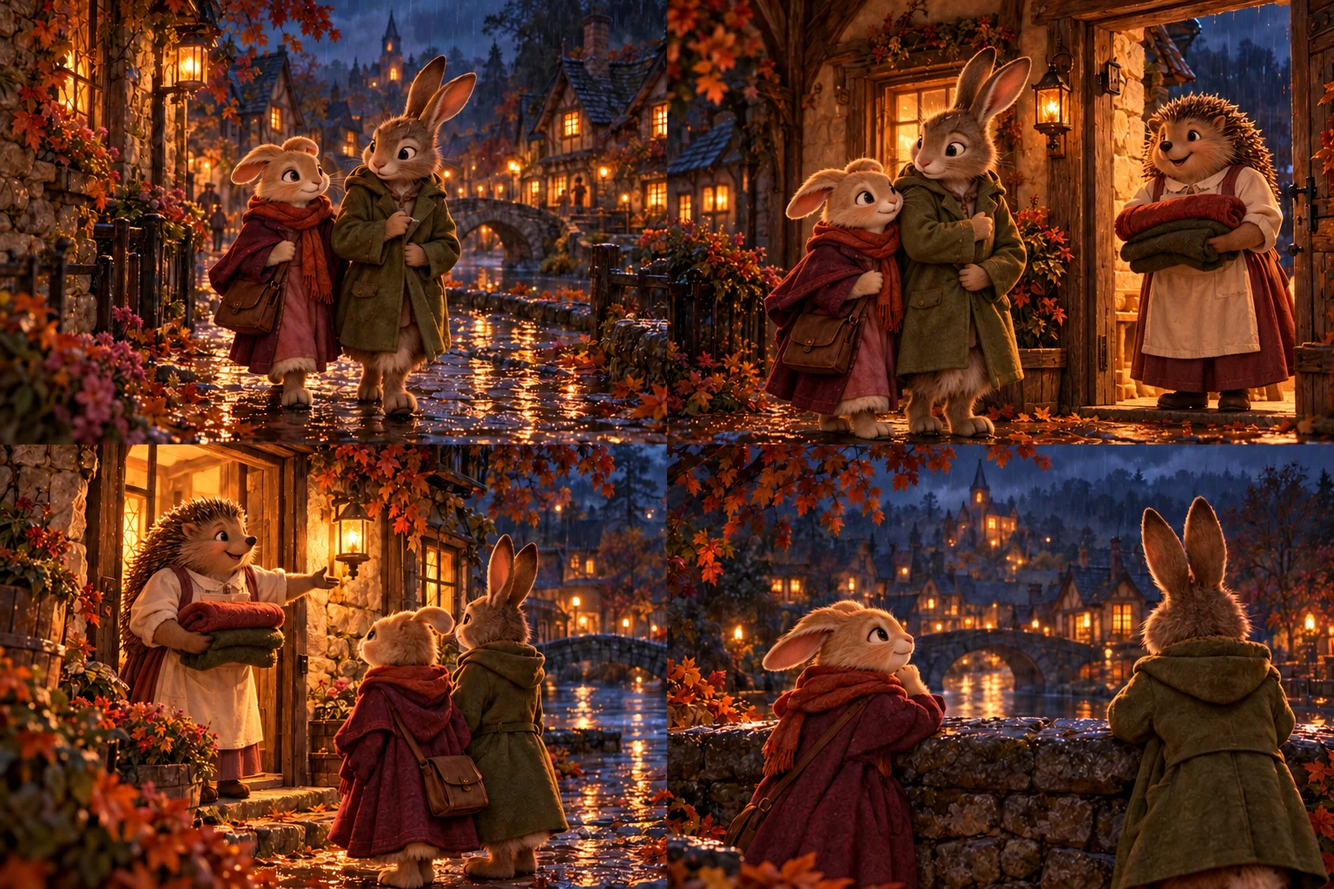
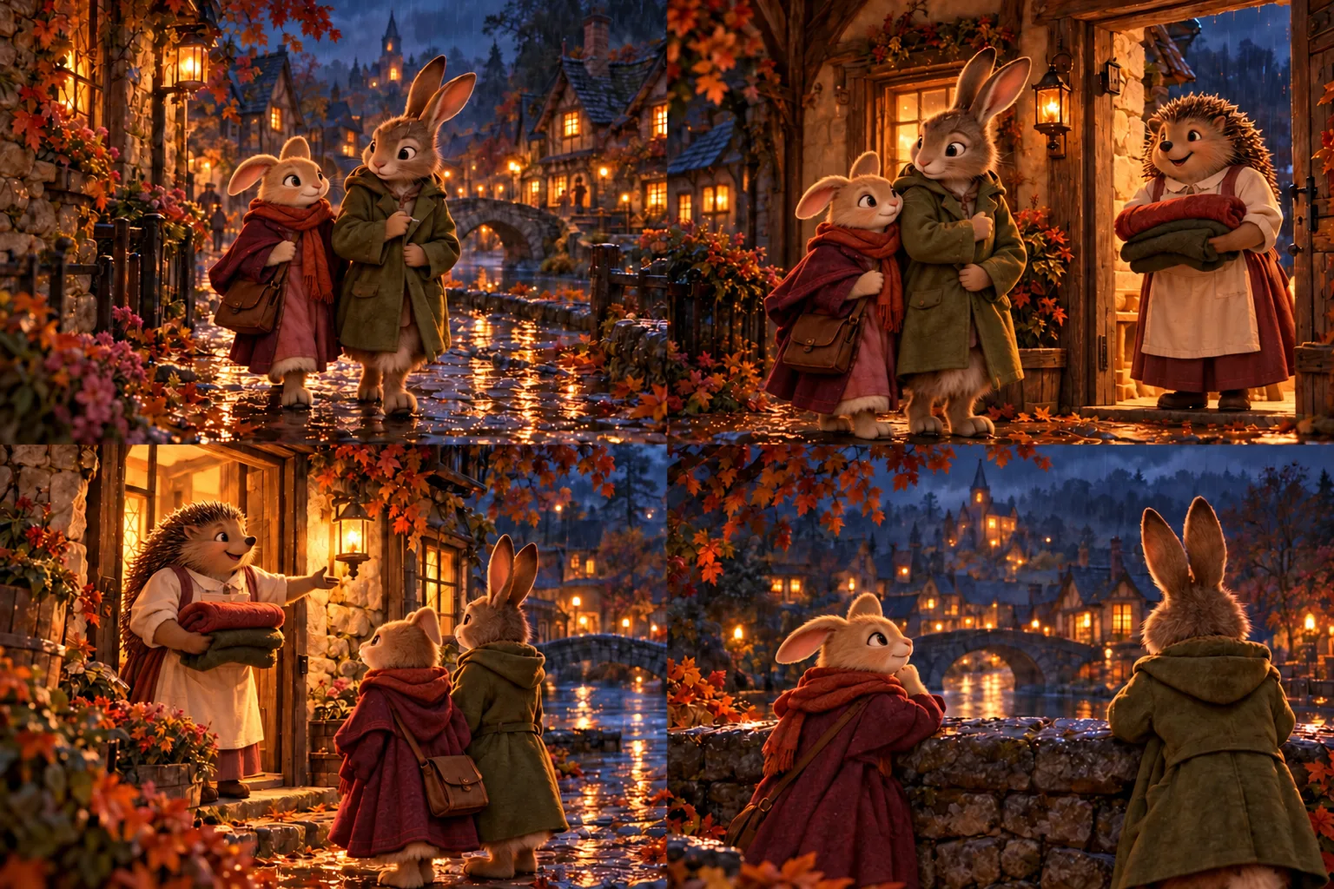
Correct Pip's duplicated ears across Chapter 1 artwork

diff --git a/woodland-crossings/frame-art.js b/woodland-crossings/frame-art.js
@@ -1,7 +1,7 @@
 // Chapter 1 illustration frames. Story words and learning state remain elsewhere.
 import {placeFrogs} from './frogs.js';
 import {CHAPTER_ONE} from './chapter-one.js';
-export const FRAME_ART=[{"id":"m1-0-0","scene":"m1","kind":"story","cell":0,"asset":"chapter-one/frames/sheet-01.webp","text":"By the time Pip and Mara left the lantern fair, rain had begun to collect in the paper pumpkins hanging above the square.","page":0,"part":0,"frog":{"id":"fair-frog","x":17,"y":29,"perches":[{"x":78,"y":84}]}},{"id":"m1-0-1","scene":"m1","kind":"story","cell":1,"asset":"chapter-one/frames/sheet-01.webp","text":"Their candlelight shone through the wet orange folds and trembled in the puddles below, where scraps of ribbon floated among the apple stalks.","page":0,"part":1},{"id":"m1-0-2","scene":"m1","kind":"story","cell":2,"asset":"chapter-one/frames/sheet-01.webp","text":"One pumpkin had sagged beneath the weight of the water, leaving a cheerful mouth beneath a rather unfortunate nose.","page":0,"part":2},{"id":"m1-0-3","scene":"m1","kind":"story","cell":3,"asset":"chapter-one/frames/sheet-01.webp","text":"Pip reached up to straighten it, balancing on the edge of the fountain so that her cape brushed the water.","page":0,"part":3},{"id":"m1-1-0","scene":"m1","kind":"story","cell":0,"asset":"chapter-one/frames/sheet-02.webp","text":"“Leave it,” Mara said. “You’ll pull the whole string down.” “I’m only trying to straighten it,” Pip said. “You were trying to help at the cake stall too,” Mara reminded her.","page":1,"part":0},{"id":"m1-2-0","scene":"m1","kind":"story","cell":1,"asset":"chapter-one/frames/sheet-02.webp","text":"Pip folded the icing-stained hem of her cape underneath and stepped down. All around them, the fair was being packed into boxes.","page":2,"part":0},{"id":"m1-2-1","scene":"m1","kind":"story","cell":2,"asset":"chapter-one/frames/sheet-02.webp","text":"The baker shook a shower of crumbs from her tablecloth while two neighbours struggled with a trestle table, and the last of the little painted boats bumped together in the fountain.","page":2,"part":1},{"id":"m1-2-2","scene":"m1","kind":"story","cell":3,"asset":"chapter-one/frames/sheet-02.webp","text":"From the open bakery door came a waft of baked apple and cinnamon that made Pip wish she had saved some of her money.","page":2,"part":2},{"id":"m1-3-0","scene":"m1","kind":"story","cell":0,"asset":"chapter-one/frames/sheet-03.webp","text":"Mara had tucked her handmade lantern, still unlit, beneath her moss-green coat, where its corners pressed awkwardly against her ribs.","page":3,"part":0},{"id":"m1-3-1","scene":"m1","kind":"story","cell":1,"asset":"chapter-one/frames/sheet-03.webp","text":"She had spent the afternoon cutting out its little windows, and whenever Pip came too close she turned sideways to protect it. The baker came to the doorway with two folded blankets over her arm.","page":3,"part":1},{"id":"m1-3-2","scene":"m1","kind":"story","cell":2,"asset":"chapter-one/frames/sheet-03.webp","text":"“If you see the mender and her apprentice, tell them their room’s ready,” she called. “They usually come over the low bridge, but I haven’t seen them yet.”","page":3,"part":2},{"id":"m1-4-0","scene":"m1","kind":"story","cell":3,"asset":"chapter-one/frames/sheet-03.webp","text":"Pip promised she would, already hoping the visitors might bring one of the little clockwork animals the apprentice sometimes made from scraps.","page":4,"part":0},{"id":"m1-4-1","scene":"m1","kind":"story","cell":0,"asset":"chapter-one/frames/sheet-04.webp","text":"They were passing the fountain when a light appeared beyond the gardens, in the mill’s upper window. “Look,” Pip said, catching Mara’s sleeve. “Upstairs.”","page":4,"part":1},{"id":"m2-0-0","scene":"m2","kind":"story","cell":1,"asset":"chapter-one/frames/sheet-04.webp","text":"Alders hid the mill’s lower walls. In summer, water spilled from the wheel in silver threads, and the whole building hummed pleasantly enough to hear from the square.","page":0,"part":0,"frog":{"id":"window-frog","x":20,"y":85,"perches":[{"x":62,"y":78}]}},{"id":"m2-0-1","scene":"m2","kind":"story","cell":2,"asset":"chapter-one/frames/sheet-04.webp","text":"Now the wheel was black and still, its paddles clogged with leaves. It had stopped for winter a week earlier, and nobody had lit the upper room since. “Bram must still be working,” Mara said, following her gaze.","page":0,"part":1},{"id":"m2-0-2","scene":"m2","kind":"story","cell":3,"asset":"chapter-one/frames/sheet-04.webp","text":"“But his cottage was dark when we came past,” Pip said.","page":0,"part":2},{"id":"m2-1-0","scene":"m2","kind":"story","cell":0,"asset":"chapter-one/frames/sheet-05.webp","text":"“Then he’s still here, isn’t he?” Mara replied, drawing her sleeve free. As the village clock began to chime the quarter to twelve, a broad head and shoulders passed between the light and the glass.","page":1,"part":0},{"id":"m2-1-1","scene":"m2","kind":"story","cell":1,"asset":"chapter-one/frames/sheet-05.webp","text":"Pip thought she recognised the high collar of Bram’s green coat, but before she could be sure the figure bent down and disappeared below the windowsill.","page":1,"part":1},{"id":"m2-1-2","scene":"m2","kind":"story","cell":2,"asset":"chapter-one/frames/sheet-05.webp","text":"Something scraped across the floor with a long, uneven groan that carried between two gusts of rain. “What’s he doing up there?” Pip asked.","page":1,"part":2},{"id":"m2-2-0","scene":"m2","kind":"story","cell":3,"asset":"chapter-one/frames/sheet-05.webp","text":"“We could ask him in the morning,” Mara suggested, looking back towards the bakery.","page":2,"part":0},{"id":"m3-0-0","scene":"m3","kind":"story","cell":0,"asset":"chapter-one/frames/sheet-06.webp","text":"Pip knew why Mara wanted to go home. At the last fair, Bram had settled them beside his stove with hot cups between their paws and asked whether they knew the story of the mill bell.","page":0,"part":0,"frog":{"id":"fireside-frog","x":13,"y":80,"perches":[{"x":58,"y":77}]}},{"id":"m3-0-1","scene":"m3","kind":"story","cell":1,"asset":"chapter-one/frames/sheet-06.webp","text":"The cottage had smelled of drying socks and orange peel, and it had been easy to lean forward while he lowered his voice.","page":0,"part":1},{"id":"m3-1-0","scene":"m3","kind":"story","cell":2,"asset":"chapter-one/frames/sheet-06.webp","text":"If the mill bell rang after midnight, he had told them, someone would be missing before morning.","page":1,"part":0},{"id":"m3-1-1","scene":"m3","kind":"story","cell":3,"asset":"chapter-one/frames/sheet-06.webp","text":"The mill bell was the little brass bell he kept above the mill fireplace, with a leather strap so that he could carry it to the bank when the water rose.","page":1,"part":1},{"id":"m3-1-2","scene":"m3","kind":"story","cell":0,"asset":"chapter-one/frames/sheet-07.webp","text":"When Pip asked who, Bram took his time choosing another log for the stove. “That depends who’s listening,” he had said.","page":1,"part":2},{"id":"m3-2-0","scene":"m3","kind":"story","cell":1,"asset":"chapter-one/frames/sheet-07.webp","text":"Mara had refused to use the mill lane for a week afterwards. Pip had taken it twice that week, although both visits had been in daylight and in the company of somebody considerably larger than herself.","page":2,"part":0},{"id":"m3-2-1","scene":"m3","kind":"story","cell":2,"asset":"chapter-one/frames/sheet-07.webp","text":"“It was a story,” Mara said now, as though Pip had mentioned it aloud. “I know it was,” Pip replied, keeping her eyes on the window.","page":2,"part":1},{"id":"m3-3-0","scene":"m3","kind":"story","cell":3,"asset":"chapter-one/frames/sheet-07.webp","text":"The light moved once more and vanished, leaving them with their own dim reflections in a puddle at their feet. Without it, the mill seemed to have drawn back into the trees.","page":3,"part":0},{"id":"m3-3-1","scene":"m3","kind":"story","cell":0,"asset":"chapter-one/frames/sheet-08.webp","text":"Pip could hear the stream rushing behind the garden wall, much louder than it had been on their way to the fair.","page":3,"part":1},{"id":"m4-0-0","scene":"m4","kind":"story","cell":1,"asset":"chapter-one/frames/sheet-08.webp","text":"“He might need a hand,” Pip said, already picking her way down the mill lane between the puddles.","page":0,"part":0,"frog":{"id":"rain-frog","x":86,"y":70,"perches":[{"x":65,"y":87}]}},{"id":"m4-1-0","scene":"m4","kind":"story","cell":2,"asset":"chapter-one/frames/sheet-08.webp","text":"Mara stayed beneath the dripping pumpkins for a moment before she tucked the lantern farther inside her coat and followed. The lane curled behind Bram’s cottage and continued towards the mill.","page":1,"part":0},{"id":"m4-1-1","scene":"m4","kind":"story","cell":3,"asset":"chapter-one/frames/sheet-08.webp","text":"No light showed beneath the cottage’s steep roof. Along the garden fence, wet rosemary brushed their knees and shed its sharp scent whenever Pip caught a branch.","page":1,"part":1},{"id":"m4-1-2","scene":"m4","kind":"story","cell":0,"asset":"chapter-one/frames/sheet-09.webp","text":"By the time they reached the mill porch, the warmth of the square had given way to the smell of damp wood and the steady dripping of the eaves.","page":1,"part":2},{"id":"m4-2-0","scene":"m4","kind":"story","cell":1,"asset":"chapter-one/frames/sheet-09.webp","text":"A narrow trail of pale shavings lay beneath the mill’s side window. Rain had flattened the outer edge into the mud, but the wood tucked against the wall was still dry.","page":2,"part":0},{"id":"m4-2-1","scene":"m4","kind":"story","cell":2,"asset":"chapter-one/frames/sheet-09.webp","text":"Pip could smell it when the wind turned, a fresh, sharp smell that did not belong to the wet leaves. The front door stood ajar.","page":2,"part":1},{"id":"m4-2-2","scene":"m4","kind":"story","cell":3,"asset":"chapter-one/frames/sheet-09.webp","text":"A strip of green cloth was caught beneath the latch, its loose threads stirring whenever the wind found the gap.","page":2,"part":2},{"id":"m4-3-0","scene":"m4","kind":"story","cell":0,"asset":"chapter-one/frames/sheet-10.webp","text":"Pip lifted it into the light from the doorway and recognised the crooked yellow stitches along its edge.","page":3,"part":0},{"id":"m4-3-1","scene":"m4","kind":"story","cell":1,"asset":"chapter-one/frames/sheet-10.webp","text":"Bram had let her mend the cuff of his green coat in the summer, sitting patiently with his arm on the kitchen table while she tried to make the two sides meet.","page":3,"part":1},{"id":"m4-3-2","scene":"m4","kind":"story","cell":2,"asset":"chapter-one/frames/sheet-10.webp","text":"She had hoped nobody else would notice how unevenly she had done it. “Bram?” she called, easing the cloth from the iron catch.","page":3,"part":2},{"id":"m5-0-0","scene":"m5","kind":"story","cell":3,"asset":"chapter-one/frames/sheet-10.webp","text":"Her voice travelled into the mill and received no answer. Mara pushed the door wider, revealing an oil lamp burning at the foot of the stairs and muddy tracks across the floor.","page":0,"part":0,"frog":{"id":"porch-frog","x":86,"y":76,"perches":[{"x":58,"y":84}]}},{"id":"m5-0-1","scene":"m5","kind":"story","cell":0,"asset":"chapter-one/frames/sheet-11.webp","text":"She took the lantern from beneath her coat and stepped inside, keeping its paper sides clear of the lamp as she touched her candle’s wick to the oil flame.","page":0,"part":1},{"id":"m5-0-2","scene":"m5","kind":"story","cell":1,"asset":"chapter-one/frames/sheet-11.webp","text":"Light filled the little windows she had cut so carefully, and she held the lantern clear of the door as Pip squeezed past.","page":0,"part":2},{"id":"m5-0-3","scene":"m5","kind":"story","cell":2,"asset":"chapter-one/frames/sheet-11.webp","text":"Above the cold fireplace, the iron hook that held the mill bell was empty, with a pale outline on the wall where its leather strap usually hung.","page":0,"part":3},{"id":"m5-1-0","scene":"m5","kind":"story","cell":3,"asset":"chapter-one/frames/sheet-11.webp","text":"Something knocked against the wall beyond the porch. Pip waited with the torn cloth caught between her paws, but no footsteps came down the stairs.","page":1,"part":0},{"id":"m1-question","scene":"m1","kind":"question","cell":0,"asset":"chapter-one/frames/sheet-12.webp","text":"A fresh camera composition for the notebook editing stop after After the fair. Show Pip consulting her closed notebook with Mara nearby, at this scene’s location. No legible writing or close-up evidence.","frog":{"id":"fair-frog","x":18,"y":54,"perches":[{"x":73,"y":82}]}},{"id":"m2-question","scene":"m2","kind":"question","cell":1,"asset":"chapter-one/frames/sheet-12.webp","text":"A fresh camera composition for the notebook editing stop after The upstairs light. Show Pip consulting her closed notebook with Mara nearby, at this scene’s location. No legible writing or close-up evidence.","frog":{"id":"window-frog","x":86,"y":62,"perches":[{"x":67,"y":82}]}},{"id":"m3-question","scene":"m3","kind":"question","cell":2,"asset":"chapter-one/frames/sheet-12.webp","text":"A fresh camera composition for the notebook editing stop after Bram’s story. Show Pip consulting her closed notebook with Mara nearby, at this scene’s location. No legible writing or close-up evidence.","frog":{"id":"fireside-frog","x":13,"y":76,"perches":[{"x":70,"y":84}]}},{"id":"m4-question","scene":"m4","kind":"question","cell":3,"asset":"chapter-one/frames/sheet-12.webp","text":"A fresh camera composition for the notebook editing stop after The mill lane. Show Pip consulting her closed notebook with Mara nearby, at this scene’s location. No legible writing or close-up evidence.","frog":{"id":"rain-frog","x":86,"y":71,"perches":[{"x":65,"y":83}]}},{"id":"m5-question","scene":"m5","kind":"question","cell":0,"asset":"chapter-one/frames/sheet-13.webp","text":"A fresh camera composition for the notebook editing stop after The empty mill. Show Pip consulting her closed notebook with Mara nearby, at this scene’s location. No legible writing or close-up evidence.","frog":{"id":"porch-frog","x":16,"y":75,"perches":[{"x":68,"y":83}]}},{"id":"wood-note","scene":"m4","kind":"casework","cell":1,"asset":"chapter-one/frames/sheet-13.webp","text":"Pip pauses by the rain-wet mill wall, thinking about how to record her observations. The side wall is partly hidden by plants; do not draw shavings."},{"id":"dark-window","scene":"m4","kind":"casework","cell":2,"asset":"chapter-one/frames/sheet-13.webp","text":"Two rabbit girls exchange thoughtful glances beneath the shadow of the now dark mill window. Distant warm bakery lights contrast with wet dark leaves."},{"id":"yellow-stitches","scene":"m4","kind":"casework","cell":3,"asset":"chapter-one/frames/sheet-13.webp","text":"Pip and Mara discuss what can be known from a small discovery, sheltered just outside the mill doorway. Their paws are low and obscured by the notebook; no visible cloth, cuff, stitches or coat damage."}];
+export const FRAME_ART=[{"id":"m1-0-0","scene":"m1","kind":"story","cell":0,"asset":"chapter-one/frames/sheet-01.webp?v=ears2","text":"By the time Pip and Mara left the lantern fair, rain had begun to collect in the paper pumpkins hanging above the square.","page":0,"part":0,"frog":{"id":"fair-frog","x":17,"y":29,"perches":[{"x":78,"y":84}]}},{"id":"m1-0-1","scene":"m1","kind":"story","cell":1,"asset":"chapter-one/frames/sheet-01.webp?v=ears2","text":"Their candlelight shone through the wet orange folds and trembled in the puddles below, where scraps of ribbon floated among the apple stalks.","page":0,"part":1},{"id":"m1-0-2","scene":"m1","kind":"story","cell":2,"asset":"chapter-one/frames/sheet-01.webp?v=ears2","text":"One pumpkin had sagged beneath the weight of the water, leaving a cheerful mouth beneath a rather unfortunate nose.","page":0,"part":2},{"id":"m1-0-3","scene":"m1","kind":"story","cell":3,"asset":"chapter-one/frames/sheet-01.webp?v=ears2","text":"Pip reached up to straighten it, balancing on the edge of the fountain so that her cape brushed the water.","page":0,"part":3},{"id":"m1-1-0","scene":"m1","kind":"story","cell":0,"asset":"chapter-one/frames/sheet-02.webp?v=ears2","text":"“Leave it,” Mara said. “You’ll pull the whole string down.” “I’m only trying to straighten it,” Pip said. “You were trying to help at the cake stall too,” Mara reminded her.","page":1,"part":0},{"id":"m1-2-0","scene":"m1","kind":"story","cell":1,"asset":"chapter-one/frames/sheet-02.webp?v=ears2","text":"Pip folded the icing-stained hem of her cape underneath and stepped down. All around them, the fair was being packed into boxes.","page":2,"part":0},{"id":"m1-2-1","scene":"m1","kind":"story","cell":2,"asset":"chapter-one/frames/sheet-02.webp?v=ears2","text":"The baker shook a shower of crumbs from her tablecloth while two neighbours struggled with a trestle table, and the last of the little painted boats bumped together in the fountain.","page":2,"part":1},{"id":"m1-2-2","scene":"m1","kind":"story","cell":3,"asset":"chapter-one/frames/sheet-02.webp?v=ears2","text":"From the open bakery door came a waft of baked apple and cinnamon that made Pip wish she had saved some of her money.","page":2,"part":2},{"id":"m1-3-0","scene":"m1","kind":"story","cell":0,"asset":"chapter-one/frames/sheet-03.webp?v=ears2","text":"Mara had tucked her handmade lantern, still unlit, beneath her moss-green coat, where its corners pressed awkwardly against her ribs.","page":3,"part":0},{"id":"m1-3-1","scene":"m1","kind":"story","cell":1,"asset":"chapter-one/frames/sheet-03.webp?v=ears2","text":"She had spent the afternoon cutting out its little windows, and whenever Pip came too close she turned sideways to protect it. The baker came to the doorway with two folded blankets over her arm.","page":3,"part":1},{"id":"m1-3-2","scene":"m1","kind":"story","cell":2,"asset":"chapter-one/frames/sheet-03.webp?v=ears2","text":"“If you see the mender and her apprentice, tell them their room’s ready,” she called. “They usually come over the low bridge, but I haven’t seen them yet.”","page":3,"part":2},{"id":"m1-4-0","scene":"m1","kind":"story","cell":3,"asset":"chapter-one/frames/sheet-03.webp?v=ears2","text":"Pip promised she would, already hoping the visitors might bring one of the little clockwork animals the apprentice sometimes made from scraps.","page":4,"part":0},{"id":"m1-4-1","scene":"m1","kind":"story","cell":0,"asset":"chapter-one/frames/sheet-04.webp?v=ears2","text":"They were passing the fountain when a light appeared beyond the gardens, in the mill’s upper window. “Look,” Pip said, catching Mara’s sleeve. “Upstairs.”","page":4,"part":1},{"id":"m2-0-0","scene":"m2","kind":"story","cell":1,"asset":"chapter-one/frames/sheet-04.webp?v=ears2","text":"Alders hid the mill’s lower walls. In summer, water spilled from the wheel in silver threads, and the whole building hummed pleasantly enough to hear from the square.","page":0,"part":0,"frog":{"id":"window-frog","x":20,"y":85,"perches":[{"x":62,"y":78}]}},{"id":"m2-0-1","scene":"m2","kind":"story","cell":2,"asset":"chapter-one/frames/sheet-04.webp?v=ears2","text":"Now the wheel was black and still, its paddles clogged with leaves. It had stopped for winter a week earlier, and nobody had lit the upper room since. “Bram must still be working,” Mara said, following her gaze.","page":0,"part":1},{"id":"m2-0-2","scene":"m2","kind":"story","cell":3,"asset":"chapter-one/frames/sheet-04.webp?v=ears2","text":"“But his cottage was dark when we came past,” Pip said.","page":0,"part":2},{"id":"m2-1-0","scene":"m2","kind":"story","cell":0,"asset":"chapter-one/frames/sheet-05.webp?v=ears2","text":"“Then he’s still here, isn’t he?” Mara replied, drawing her sleeve free. As the village clock began to chime the quarter to twelve, a broad head and shoulders passed between the light and the glass.","page":1,"part":0},{"id":"m2-1-1","scene":"m2","kind":"story","cell":1,"asset":"chapter-one/frames/sheet-05.webp?v=ears2","text":"Pip thought she recognised the high collar of Bram’s green coat, but before she could be sure the figure bent down and disappeared below the windowsill.","page":1,"part":1},{"id":"m2-1-2","scene":"m2","kind":"story","cell":2,"asset":"chapter-one/frames/sheet-05.webp?v=ears2","text":"Something scraped across the floor with a long, uneven groan that carried between two gusts of rain. “What’s he doing up there?” Pip asked.","page":1,"part":2},{"id":"m2-2-0","scene":"m2","kind":"story","cell":3,"asset":"chapter-one/frames/sheet-05.webp?v=ears2","text":"“We could ask him in the morning,” Mara suggested, looking back towards the bakery.","page":2,"part":0},{"id":"m3-0-0","scene":"m3","kind":"story","cell":0,"asset":"chapter-one/frames/sheet-06.webp?v=ears2","text":"Pip knew why Mara wanted to go home. At the last fair, Bram had settled them beside his stove with hot cups between their paws and asked whether they knew the story of the mill bell.","page":0,"part":0,"frog":{"id":"fireside-frog","x":13,"y":80,"perches":[{"x":58,"y":77}]}},{"id":"m3-0-1","scene":"m3","kind":"story","cell":1,"asset":"chapter-one/frames/sheet-06.webp?v=ears2","text":"The cottage had smelled of drying socks and orange peel, and it had been easy to lean forward while he lowered his voice.","page":0,"part":1},{"id":"m3-1-0","scene":"m3","kind":"story","cell":2,"asset":"chapter-one/frames/sheet-06.webp?v=ears2","text":"If the mill bell rang after midnight, he had told them, someone would be missing before morning.","page":1,"part":0},{"id":"m3-1-1","scene":"m3","kind":"story","cell":3,"asset":"chapter-one/frames/sheet-06.webp?v=ears2","text":"The mill bell was the little brass bell he kept above the mill fireplace, with a leather strap so that he could carry it to the bank when the water rose.","page":1,"part":1},{"id":"m3-1-2","scene":"m3","kind":"story","cell":0,"asset":"chapter-one/frames/sheet-07.webp?v=ears2","text":"When Pip asked who, Bram took his time choosing another log for the stove. “That depends who’s listening,” he had said.","page":1,"part":2},{"id":"m3-2-0","scene":"m3","kind":"story","cell":1,"asset":"chapter-one/frames/sheet-07.webp?v=ears2","text":"Mara had refused to use the mill lane for a week afterwards. Pip had taken it twice that week, although both visits had been in daylight and in the company of somebody considerably larger than herself.","page":2,"part":0},{"id":"m3-2-1","scene":"m3","kind":"story","cell":2,"asset":"chapter-one/frames/sheet-07.webp?v=ears2","text":"“It was a story,” Mara said now, as though Pip had mentioned it aloud. “I know it was,” Pip replied, keeping her eyes on the window.","page":2,"part":1},{"id":"m3-3-0","scene":"m3","kind":"story","cell":3,"asset":"chapter-one/frames/sheet-07.webp?v=ears2","text":"The light moved once more and vanished, leaving them with their own dim reflections in a puddle at their feet. Without it, the mill seemed to have drawn back into the trees.","page":3,"part":0},{"id":"m3-3-1","scene":"m3","kind":"story","cell":0,"asset":"chapter-one/frames/sheet-08.webp?v=ears2","text":"Pip could hear the stream rushing behind the garden wall, much louder than it had been on their way to the fair.","page":3,"part":1},{"id":"m4-0-0","scene":"m4","kind":"story","cell":1,"asset":"chapter-one/frames/sheet-08.webp?v=ears2","text":"“He might need a hand,” Pip said, already picking her way down the mill lane between the puddles.","page":0,"part":0,"frog":{"id":"rain-frog","x":86,"y":70,"perches":[{"x":65,"y":87}]}},{"id":"m4-1-0","scene":"m4","kind":"story","cell":2,"asset":"chapter-one/frames/sheet-08.webp?v=ears2","text":"Mara stayed beneath the dripping pumpkins for a moment before she tucked the lantern farther inside her coat and followed. The lane curled behind Bram’s cottage and continued towards the mill.","page":1,"part":0},{"id":"m4-1-1","scene":"m4","kind":"story","cell":3,"asset":"chapter-one/frames/sheet-08.webp?v=ears2","text":"No light showed beneath the cottage’s steep roof. Along the garden fence, wet rosemary brushed their knees and shed its sharp scent whenever Pip caught a branch.","page":1,"part":1},{"id":"m4-1-2","scene":"m4","kind":"story","cell":0,"asset":"chapter-one/frames/sheet-09.webp?v=ears2","text":"By the time they reached the mill porch, the warmth of the square had given way to the smell of damp wood and the steady dripping of the eaves.","page":1,"part":2},{"id":"m4-2-0","scene":"m4","kind":"story","cell":1,"asset":"chapter-one/frames/sheet-09.webp?v=ears2","text":"A narrow trail of pale shavings lay beneath the mill’s side window. Rain had flattened the outer edge into the mud, but the wood tucked against the wall was still dry.","page":2,"part":0},{"id":"m4-2-1","scene":"m4","kind":"story","cell":2,"asset":"chapter-one/frames/sheet-09.webp?v=ears2","text":"Pip could smell it when the wind turned, a fresh, sharp smell that did not belong to the wet leaves. The front door stood ajar.","page":2,"part":1},{"id":"m4-2-2","scene":"m4","kind":"story","cell":3,"asset":"chapter-one/frames/sheet-09.webp?v=ears2","text":"A strip of green cloth was caught beneath the latch, its loose threads stirring whenever the wind found the gap.","page":2,"part":2},{"id":"m4-3-0","scene":"m4","kind":"story","cell":0,"asset":"chapter-one/frames/sheet-10.webp?v=ears2","text":"Pip lifted it into the light from the doorway and recognised the crooked yellow stitches along its edge.","page":3,"part":0},{"id":"m4-3-1","scene":"m4","kind":"story","cell":1,"asset":"chapter-one/frames/sheet-10.webp?v=ears2","text":"Bram had let her mend the cuff of his green coat in the summer, sitting patiently with his arm on the kitchen table while she tried to make the two sides meet.","page":3,"part":1},{"id":"m4-3-2","scene":"m4","kind":"story","cell":2,"asset":"chapter-one/frames/sheet-10.webp?v=ears2","text":"She had hoped nobody else would notice how unevenly she had done it. “Bram?” she called, easing the cloth from the iron catch.","page":3,"part":2},{"id":"m5-0-0","scene":"m5","kind":"story","cell":3,"asset":"chapter-one/frames/sheet-10.webp?v=ears2","text":"Her voice travelled into the mill and received no answer. Mara pushed the door wider, revealing an oil lamp burning at the foot of the stairs and muddy tracks across the floor.","page":0,"part":0,"frog":{"id":"porch-frog","x":86,"y":76,"perches":[{"x":58,"y":84}]}},{"id":"m5-0-1","scene":"m5","kind":"story","cell":0,"asset":"chapter-one/frames/sheet-11.webp?v=ears2","text":"She took the lantern from beneath her coat and stepped inside, keeping its paper sides clear of the lamp as she touched her candle’s wick to the oil flame.","page":0,"part":1},{"id":"m5-0-2","scene":"m5","kind":"story","cell":1,"asset":"chapter-one/frames/sheet-11.webp?v=ears2","text":"Light filled the little windows she had cut so carefully, and she held the lantern clear of the door as Pip squeezed past.","page":0,"part":2},{"id":"m5-0-3","scene":"m5","kind":"story","cell":2,"asset":"chapter-one/frames/sheet-11.webp?v=ears2","text":"Above the cold fireplace, the iron hook that held the mill bell was empty, with a pale outline on the wall where its leather strap usually hung.","page":0,"part":3},{"id":"m5-1-0","scene":"m5","kind":"story","cell":3,"asset":"chapter-one/frames/sheet-11.webp?v=ears2","text":"Something knocked against the wall beyond the porch. Pip waited with the torn cloth caught between her paws, but no footsteps came down the stairs.","page":1,"part":0},{"id":"m1-question","scene":"m1","kind":"question","cell":0,"asset":"chapter-one/frames/sheet-12.webp?v=ears2","text":"A fresh camera composition for the notebook editing stop after After the fair. Show Pip consulting her closed notebook with Mara nearby, at this scene’s location. No legible writing or close-up evidence.","frog":{"id":"fair-frog","x":18,"y":54,"perches":[{"x":73,"y":82}]}},{"id":"m2-question","scene":"m2","kind":"question","cell":1,"asset":"chapter-one/frames/sheet-12.webp?v=ears2","text":"A fresh camera composition for the notebook editing stop after The upstairs light. Show Pip consulting her closed notebook with Mara nearby, at this scene’s location. No legible writing or close-up evidence.","frog":{"id":"window-frog","x":86,"y":62,"perches":[{"x":67,"y":82}]}},{"id":"m3-question","scene":"m3","kind":"question","cell":2,"asset":"chapter-one/frames/sheet-12.webp?v=ears2","text":"A fresh camera composition for the notebook editing stop after Bram’s story. Show Pip consulting her closed notebook with Mara nearby, at this scene’s location. No legible writing or close-up evidence.","frog":{"id":"fireside-frog","x":13,"y":76,"perches":[{"x":70,"y":84}]}},{"id":"m4-question","scene":"m4","kind":"question","cell":3,"asset":"chapter-one/frames/sheet-12.webp?v=ears2","text":"A fresh camera composition for the notebook editing stop after The mill lane. Show Pip consulting her closed notebook with Mara nearby, at this scene’s location. No legible writing or close-up evidence.","frog":{"id":"rain-frog","x":86,"y":71,"perches":[{"x":65,"y":83}]}},{"id":"m5-question","scene":"m5","kind":"question","cell":0,"asset":"chapter-one/frames/sheet-13.webp?v=ears2","text":"A fresh camera composition for the notebook editing stop after The empty mill. Show Pip consulting her closed notebook with Mara nearby, at this scene’s location. No legible writing or close-up evidence.","frog":{"id":"porch-frog","x":16,"y":75,"perches":[{"x":68,"y":83}]}},{"id":"wood-note","scene":"m4","kind":"casework","cell":1,"asset":"chapter-one/frames/sheet-13.webp?v=ears2","text":"Pip pauses by the rain-wet mill wall, thinking about how to record her observations. The side wall is partly hidden by plants; do not draw shavings."},{"id":"dark-window","scene":"m4","kind":"casework","cell":2,"asset":"chapter-one/frames/sheet-13.webp?v=ears2","text":"Two rabbit girls exchange thoughtful glances beneath the shadow of the now dark mill window. Distant warm bakery lights contrast with wet dark leaves."},{"id":"yellow-stitches","scene":"m4","kind":"casework","cell":3,"asset":"chapter-one/frames/sheet-13.webp?v=ears2","text":"Pip and Mara discuss what can be known from a small discovery, sheltered just outside the mill doorway. Their paws are low and obscured by the notebook; no visible cloth, cuff, stitches or coat damage."}];
 export function readingFrameArt(scene,page=0,part=0){return FRAME_ART.find(f=>f.id===`${scene}-${page}-${part}`)||FRAME_ART.find(f=>f.scene===scene&&f.kind==='story');}
 export function questionFrameArt(id){return FRAME_ART.find(f=>f.id===id+'-question');}
 export function caseworkFrameArt(id){return FRAME_ART.find(f=>f.id===id);}

diff --git a/woodland-crossings/CHECKPOINT.md b/woodland-crossings/CHECKPOINT.md
@@ -328,3 +328,9 @@ The woodland-crossings branch now serves the new game from its root index.html, 
 - Added 52 narrative and assessment paintings in 13 optimized atlases. Every displayed reading frame changes art with the text, including keyboard navigation and storybook replay.
 - Approved text, questions and progression are unchanged. Revised generated shots to hide evidence and preserve lighting, location and lantern continuity. Authored frog perches on selected frames.
 - 95 unit/handler tests and 242 native Chapter 1 browser states pass. All 52 frame assets are checked at desktop/tablet sizes. Art provenance and prompt set: assets/chapter-one/frames/ARTWORK.md.
+
+# Checkpoint 43 — Pip ear anatomy repair
+
+- Reviewed all 52 Chapter 1 frames after the reported duplicated ears. Corrected Pip's ear silhouettes and discarded edits that changed the baker or made a distant silhouette less clear.
+- Preserved approved story, questions, page mapping and clue concealment. Added an asset cache revision so returning browsers request the corrected paintings.
+- Prompt, provenance and visual review decisions are recorded under assets/chapter-one/frames.

diff --git a/woodland-crossings/UI_REVIEW.md b/woodland-crossings/UI_REVIEW.md
@@ -99,3 +99,7 @@ The user’s screenshots exposed two inheritance conflicts: the legacy `.builder
 ## Frame illustrations — 20 October 2026
 
 52 distinct frame compositions replace repeated scene art during Chapter 1 reading and assessment. Atlases use explicit pixel geometry to isolate cells during landscape and portrait cover crops. Image loading retains a scene fallback and cannot replace a later frame after navigation. The full chapter flow passes at 1366×768, 768×1024 and 1024×600 without page scrolling; each reading turn changes its frame identity. All 52 paintings load in desktop and tablet crops.
+
+## Pip ear anatomy repair
+
+Reviewed all 52 frame compositions after the reported third ear in the upstairs-light notebook scene. Eleven sheets received anatomy edits; originals 02 and 09 were retained after their revisions introduced unrelated changes. Accepted outputs were visually checked for duplicated lobes and stray ear-like crown shapes. The reported notebook composition was also inspected in the desktop crop. All 104 desktop/tablet frame loading checks pass.

diff --git a/woodland-crossings/assets/chapter-one/frames/ARTWORK.md b/woodland-crossings/assets/chapter-one/frames/ARTWORK.md
@@ -15,3 +15,7 @@ Revision instructions corrected the following: keep present-time lantern hidden 
 ## Review
 
 All sheets were inspected for mood and evidence spoilers. Unit checks cover mapping, assets and crops. Browser checks cover all 52 frames at desktop and tablet dimensions, plus the complete Chapter 1 progression and readable hint/reward palettes. Physical device and Safari checks remain pending.
+
+## Ear anatomy correction
+
+Re-edited Pip's ear silhouettes with the built-in image generator after duplicated lobes were reported. The exact surgical edit prompt is saved in `ear-correction-prompt.txt`; retained source filenames are recorded in `source-map.json`. `anatomy-review.json` records accepted sheets and discarded revisions. The approved paintings retain exactly two anatomical ears per rabbit; profile views may obscure an ear. Asset URL revisions refresh browser caches.
